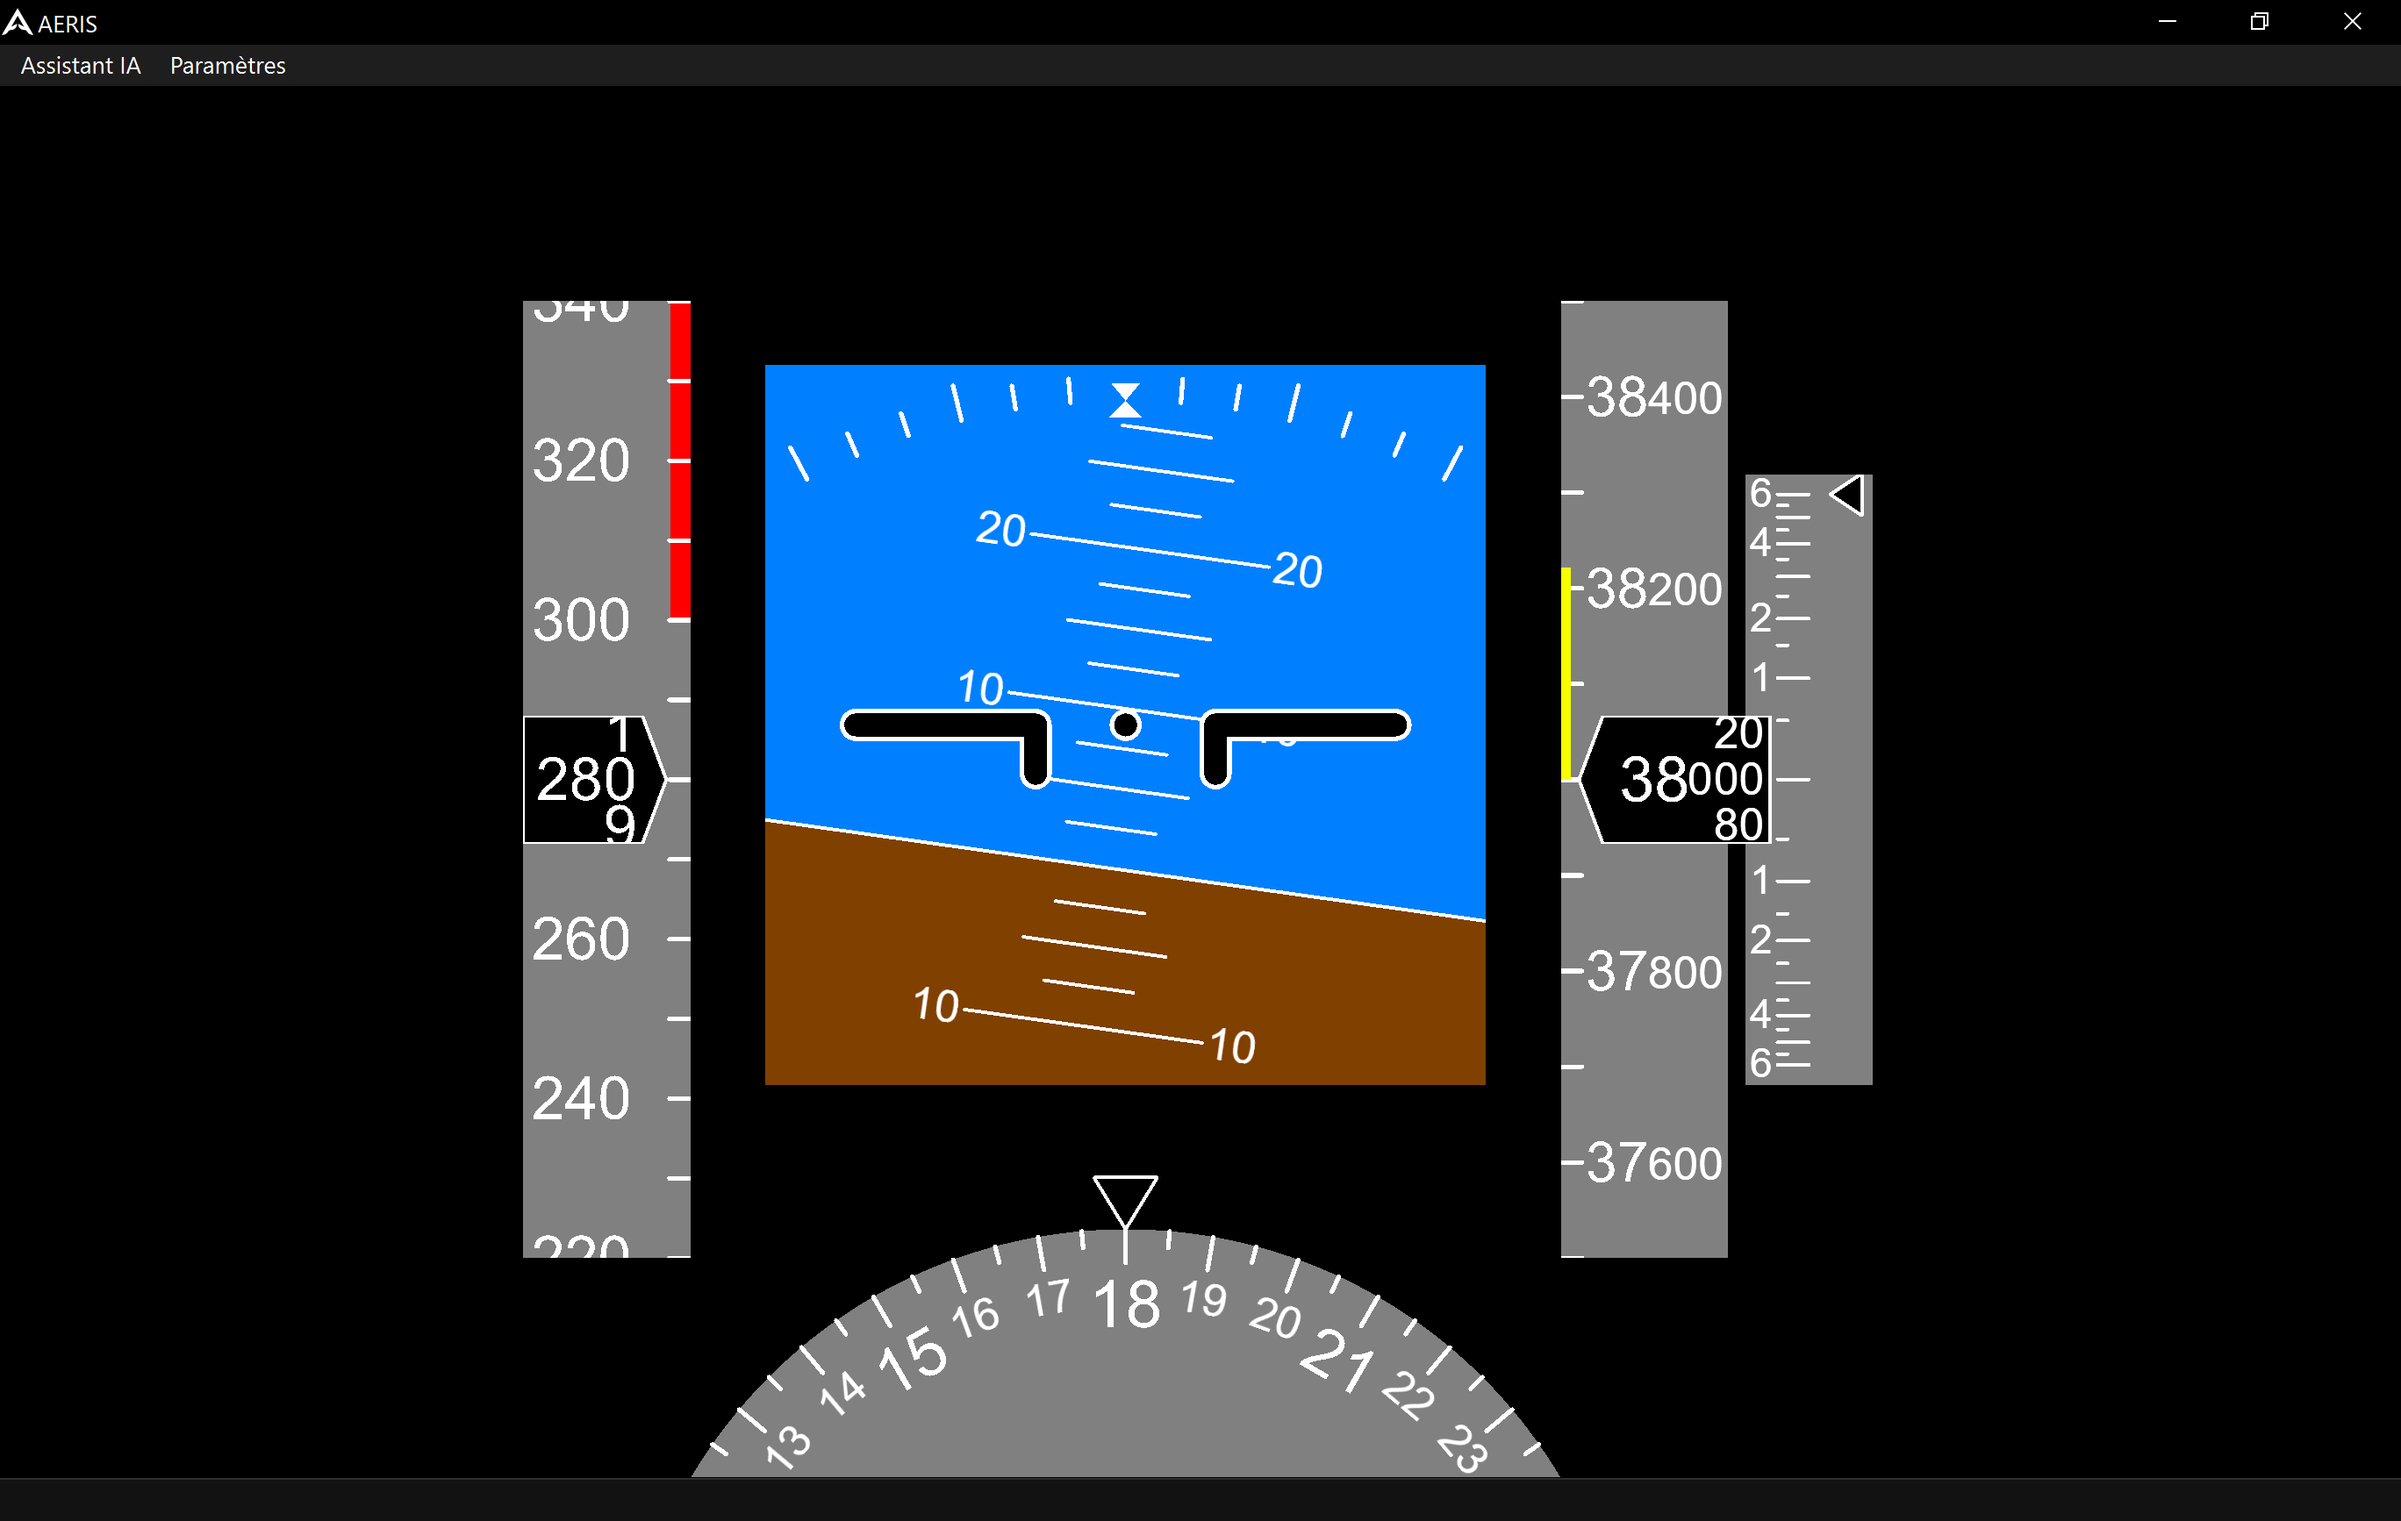
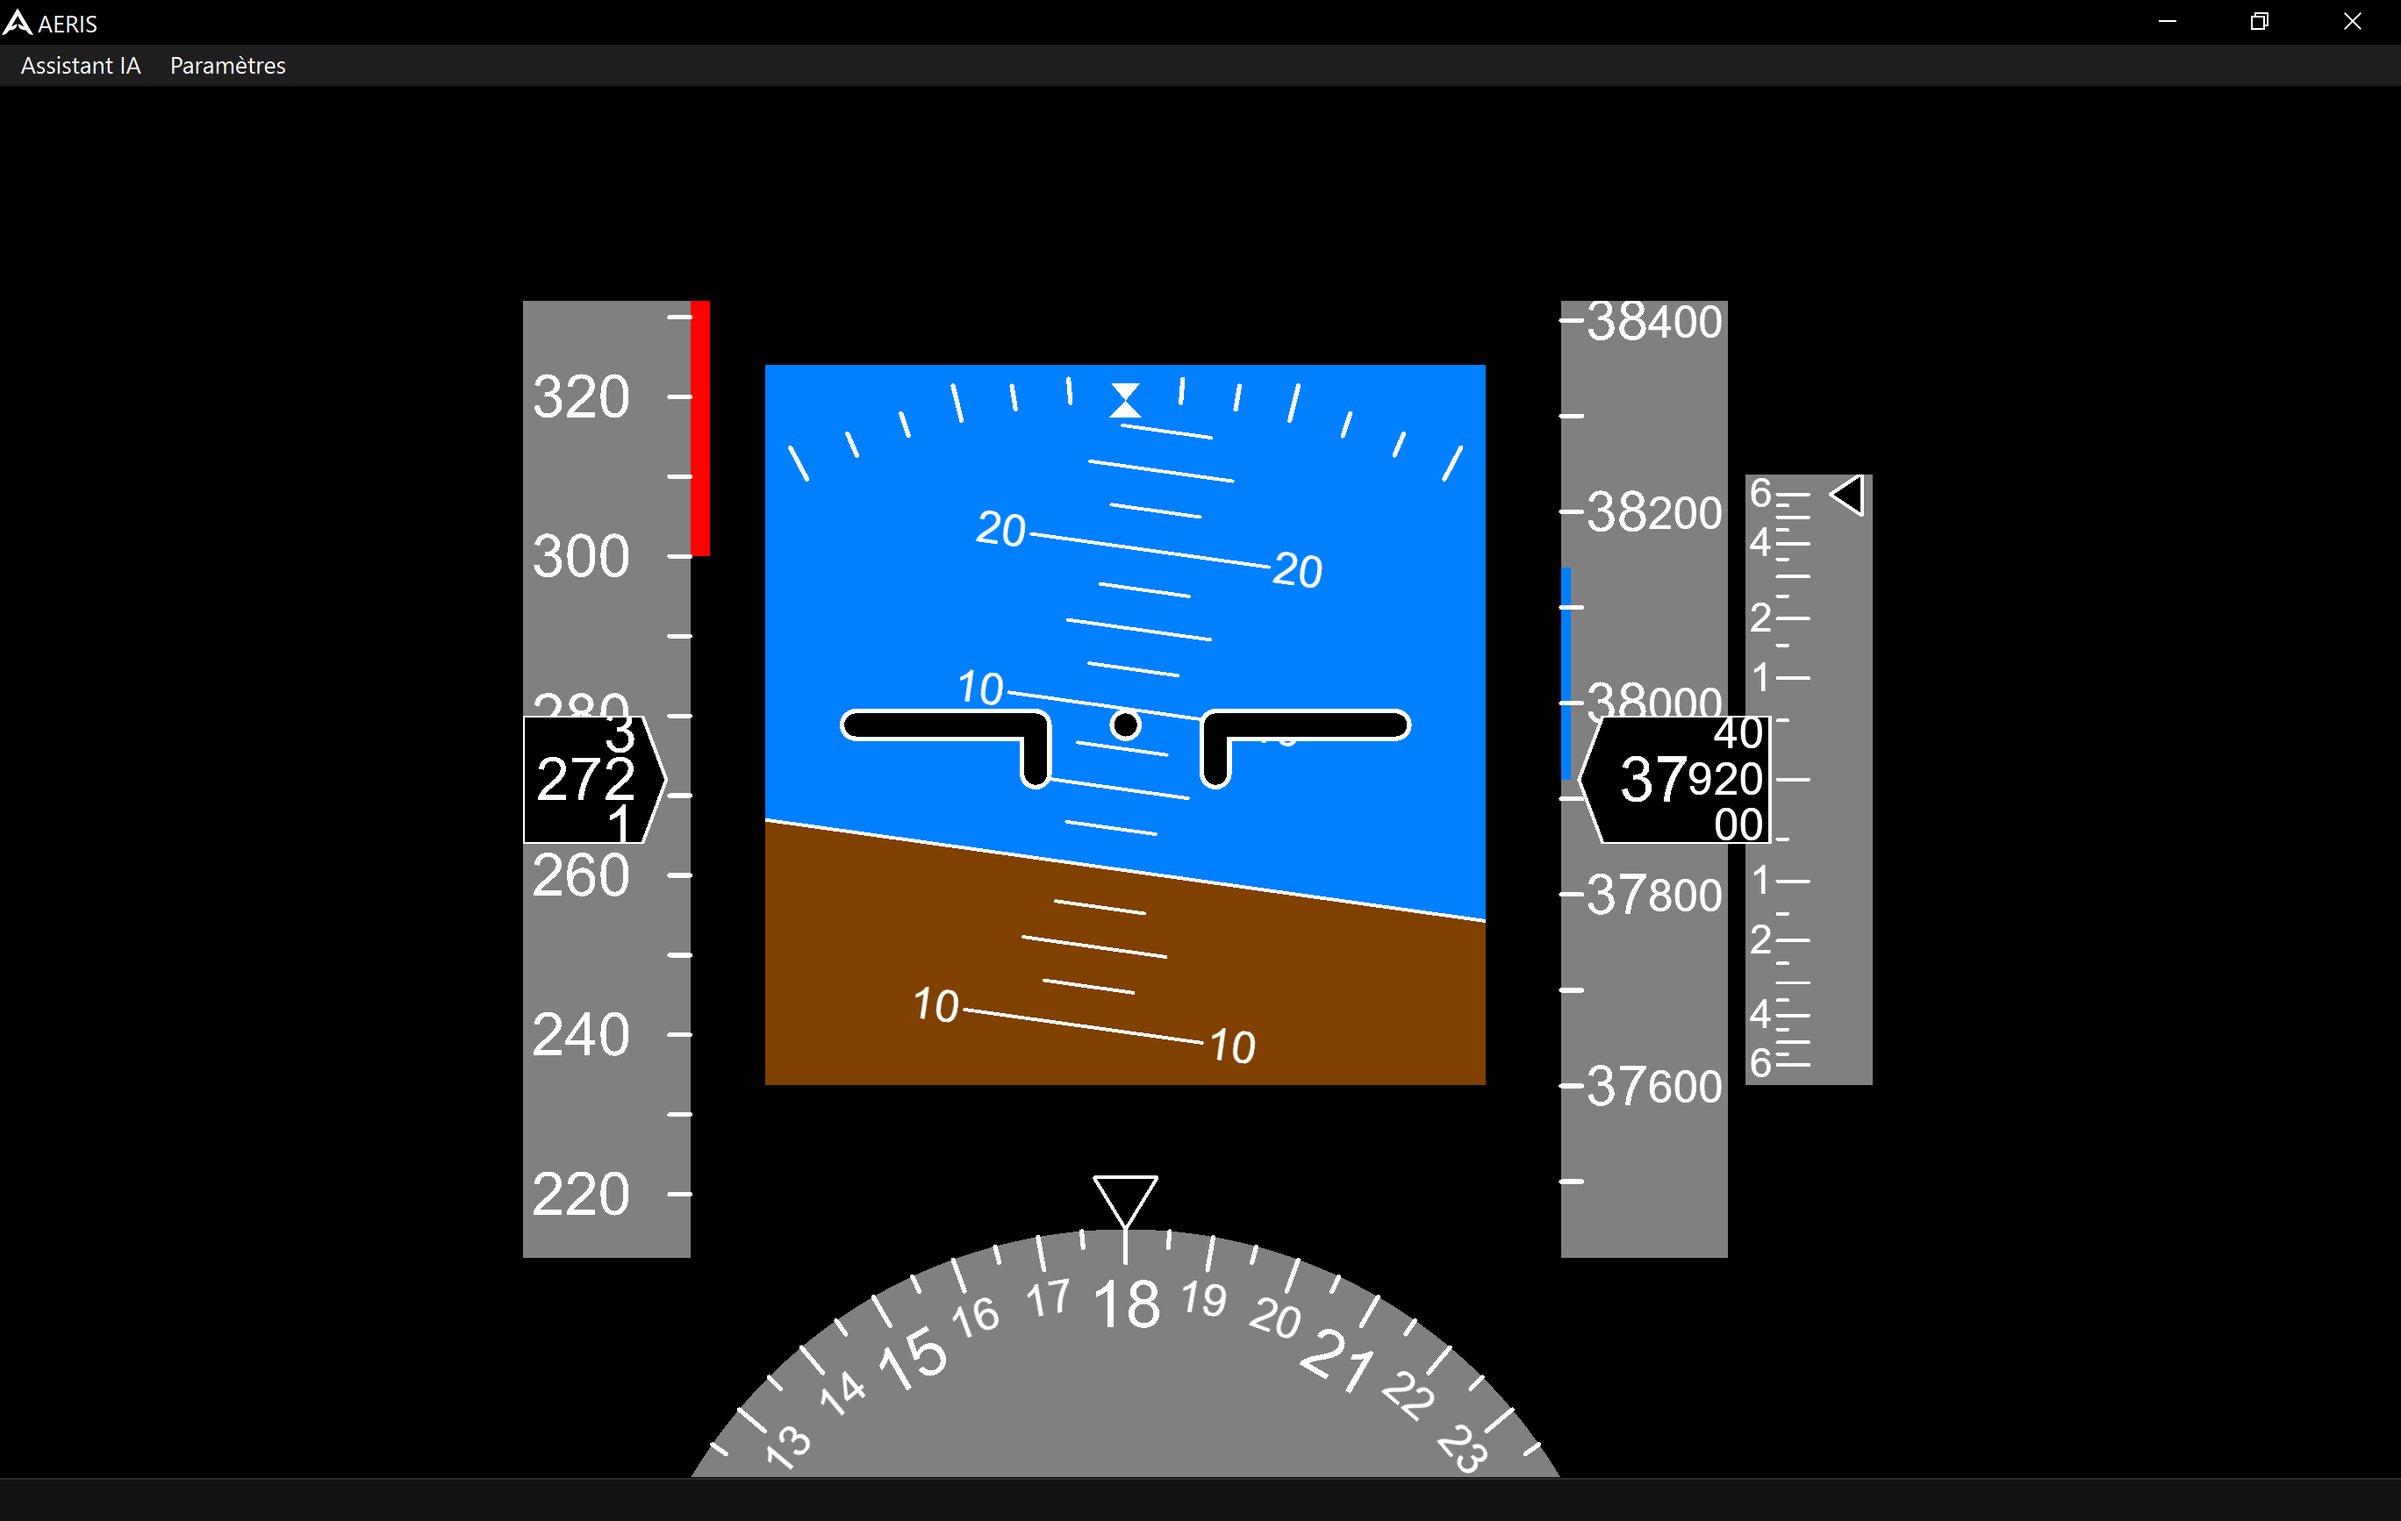
Correction d'un bug de l'altimètre, Ajout de la limite pour l'altitude, Changement de la couleur des trends et de la position des limites

diff --git a/software/ui/altimeter/instrument.py b/software/ui/altimeter/instrument.py
@@ -6,6 +6,7 @@ import numbers
 from ui.altimeter.graduations import AltitudeGraduations
 from ui.altimeter.indicator import AltitudeIndicator
 from ui.altimeter.trend import AltitudeTrend
+from ui.altimeter.limit import AltitudeLimit
 
 class AltimeterInstrument(QGraphicsItemGroup):
     def __init__(self, width , height):
@@ -26,15 +27,18 @@ class AltimeterInstrument(QGraphicsItemGroup):
 
         self.noDataEffect = QPen(Qt.PenStyle.NoPen)
         self.rect.setPen(self.noDataEffect)
+        
+        self.limit = AltitudeLimit(width,height)
+        self.addToGroup(self.limit)
+        
+        self.trend = AltitudeTrend(width,height)
+        self.addToGroup(self.trend)
 
         self.graduations = AltitudeGraduations(width, height)
         self.addToGroup(self.graduations)
 
         self.indicator = AltitudeIndicator(width, height)
         self.addToGroup(self.indicator)
-
-        self.trend = AltitudeTrend(width,height)
-        self.addToGroup(self.trend)
 
         self.isInError = False 
 
@@ -45,13 +49,14 @@ class AltimeterInstrument(QGraphicsItemGroup):
             self.rect.setPen(QPen(Qt.PenStyle.NoPen))
 
     def updatePositions(self, data):
-        altitude = 38000
         speed = 280
         roll, pitch = data
+        altitude = 38000 + roll*10
         if isinstance(altitude, numbers.Number):
             self.isInError = False
             self.graduations.updatePositions(altitude)
             self.indicator.updatePositions(altitude)
+            self.limit.updatePositions(altitude)
             if isinstance(speed, numbers.Number) and isinstance(pitch, numbers.Number):
                 self.trend.updatePositions(speed,pitch)
         else:
@@ -59,7 +64,7 @@ class AltimeterInstrument(QGraphicsItemGroup):
             self.indicator.updatePositions("Error")
 
     def boundingRect(self):
-        return QRectF(0, 0, self.width*2, self.heigth)
+        return QRectF(-self.width, 0, self.width*3, self.heigth)
 
     def shape(self):
         path = QPainterPath()

diff --git a/software/ui/anemometer/instrument.py b/software/ui/anemometer/instrument.py
@@ -32,12 +32,12 @@ class AnemometerInstrument(QGraphicsItemGroup):
         
         self.limit = SpeedLimit(width,height)
         self.addToGroup(self.limit)
-
-        self.graduations = SpeedGraduations(width,height)
-        self.addToGroup(self.graduations)
         
         self.trend = SpeedTrend(width,height)
         self.addToGroup(self.trend)
+        
+        self.graduations = SpeedGraduations(width,height)
+        self.addToGroup(self.graduations)
         
         self.indicator = SpeedIndicator(width,height)
         self.addToGroup(self.indicator)
@@ -51,7 +51,8 @@ class AnemometerInstrument(QGraphicsItemGroup):
             self.rect.setPen(QPen(Qt.PenStyle.NoPen))
 
     def updatePositions(self, data):
-        speed = 280
+        pitch, roll = data
+        speed = 280 + pitch
         if isinstance(speed, numbers.Number):
             self.isInError = False
             self.graduations.updatePositions(speed)
@@ -63,7 +64,7 @@ class AnemometerInstrument(QGraphicsItemGroup):
             self.indicator.updatePositions("Err")
         
     def boundingRect(self):
-        return QRectF(0, 0, self.width, self.height)
+        return QRectF(0, 0, self.width*3/2, self.height)
 
     def shape(self):
         path = QPainterPath()

diff --git a/software/ui/altimeter/limit.py b/software/ui/altimeter/limit.py
@@ -2,13 +2,13 @@ from PyQt6.QtWidgets import QGraphicsItemGroup, QGraphicsRectItem
 from PyQt6.QtGui import QBrush, QColor, QPen
 from PyQt6.QtCore import Qt, QElapsedTimer
 
-class SpeedLimit(QGraphicsItemGroup):
+class AltitudeLimit(QGraphicsItemGroup):
     def __init__(self, width, height):
         super().__init__()
 
         self.width = width
         self.height = height
-        self.span = 60
+        self.span = 500
         
         self.timer = QElapsedTimer()
         self.timer.start()
@@ -18,15 +18,15 @@ class SpeedLimit(QGraphicsItemGroup):
         self.rect.setPen(QPen(Qt.PenStyle.NoPen))
         self.addToGroup(self.rect)
 
-    def updatePositions(self, speed):
-        limit = 300        
+    def updatePositions(self, altitude):
+        limit = 39000 
         pixel_per_unit = (self.height / 2) / self.span
-        height_in_pixels = (limit-speed) * pixel_per_unit
+        height_in_pixels = (limit-altitude) * pixel_per_unit
 
         safe_height = max(-self.height/2, min(self.height/2, height_in_pixels))
         
         self.rect.setRect(
-            self.width, 
+            -self.width *2/ 17, 
             0,
             self.width *2/ 17, 
             self.height/2-safe_height

diff --git a/software/ui/altimeter/trend.py b/software/ui/altimeter/trend.py
@@ -14,7 +14,7 @@ class AltitudeTrend(QGraphicsItemGroup):
             0, self.height/2 ,
             self.width/17, 0
         )
-        self.rect.setBrush(QBrush(QColor("#F6FF00")))
+        self.rect.setBrush(QBrush(QColor("#0080FF")))
         self.rect.setPen(QPen(Qt.PenStyle.NoPen))
         self.addToGroup(self.rect)
 

diff --git a/software/ui/anemometer/trend.py b/software/ui/anemometer/trend.py
@@ -16,7 +16,7 @@ class SpeedTrend(QGraphicsItemGroup):
         self.timer.start()
 
         self.rect = QGraphicsRectItem()
-        self.rect.setBrush(QBrush(QColor("#F6FF00")))
+        self.rect.setBrush(QBrush(QColor("#0080FF")))
         self.rect.setPen(QPen(Qt.PenStyle.NoPen))
         self.addToGroup(self.rect)
 

diff --git a/software/ui/altimeter/graduations.py b/software/ui/altimeter/graduations.py
@@ -88,3 +88,6 @@ class AltitudeGraduations(QGraphicsItemGroup):
                     y - bigText.boundingRect().height() / 2
                 )
                 bigText.setVisible(True)
+            else:
+                smallText.setVisible(False)
+                bigText.setVisible(False)
